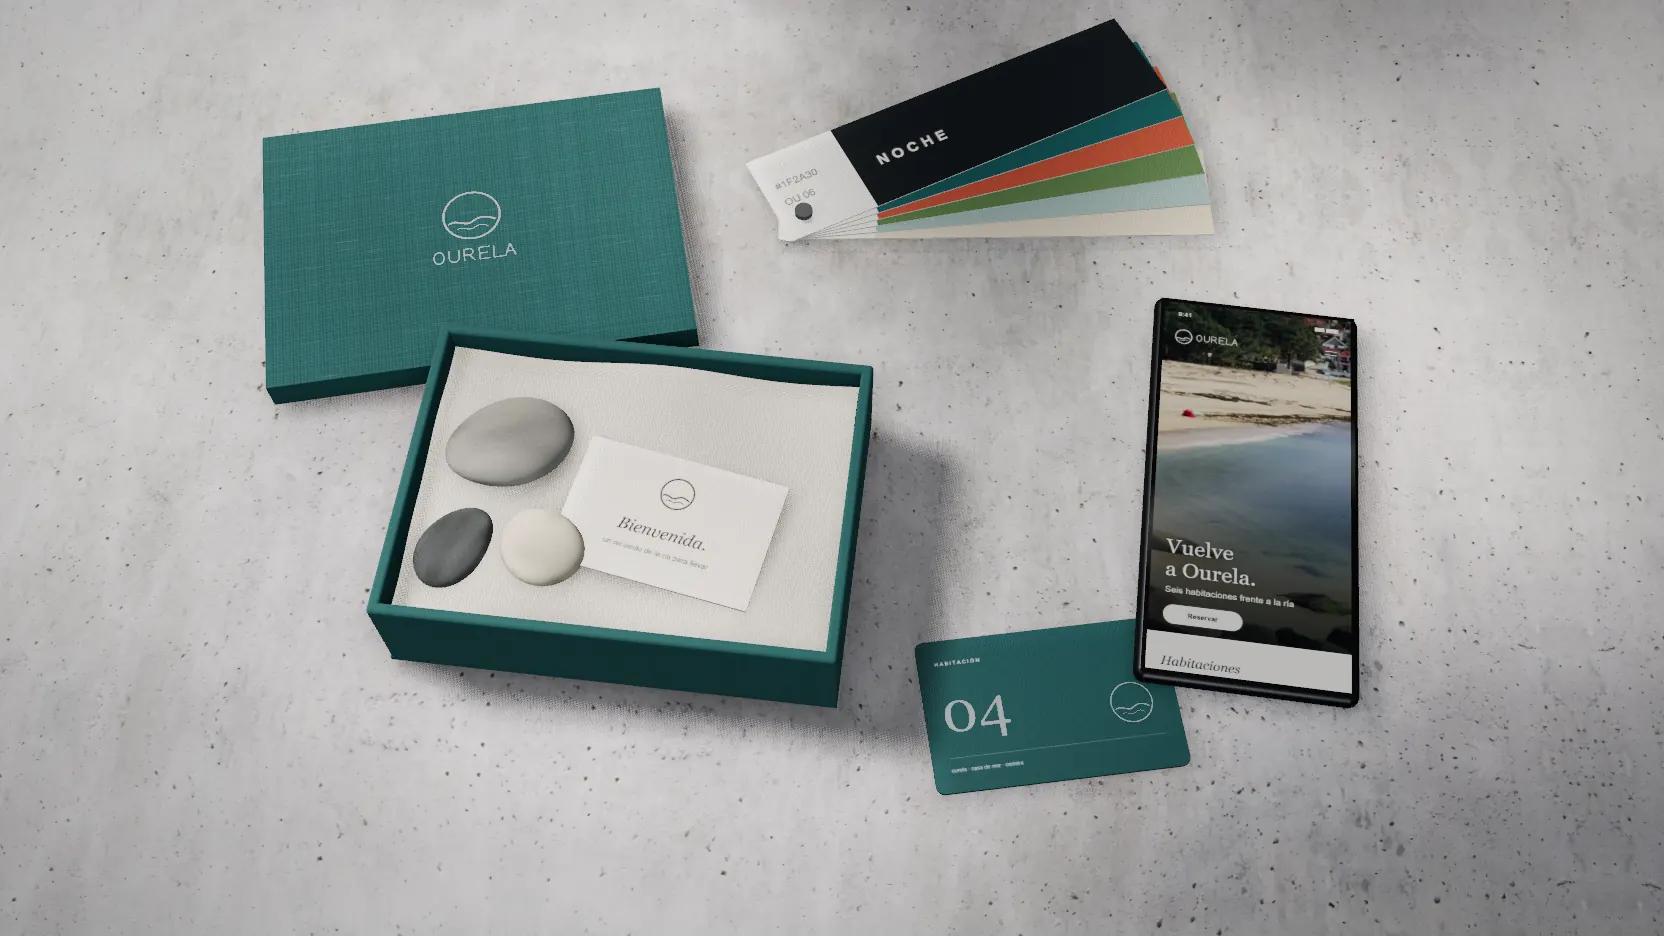
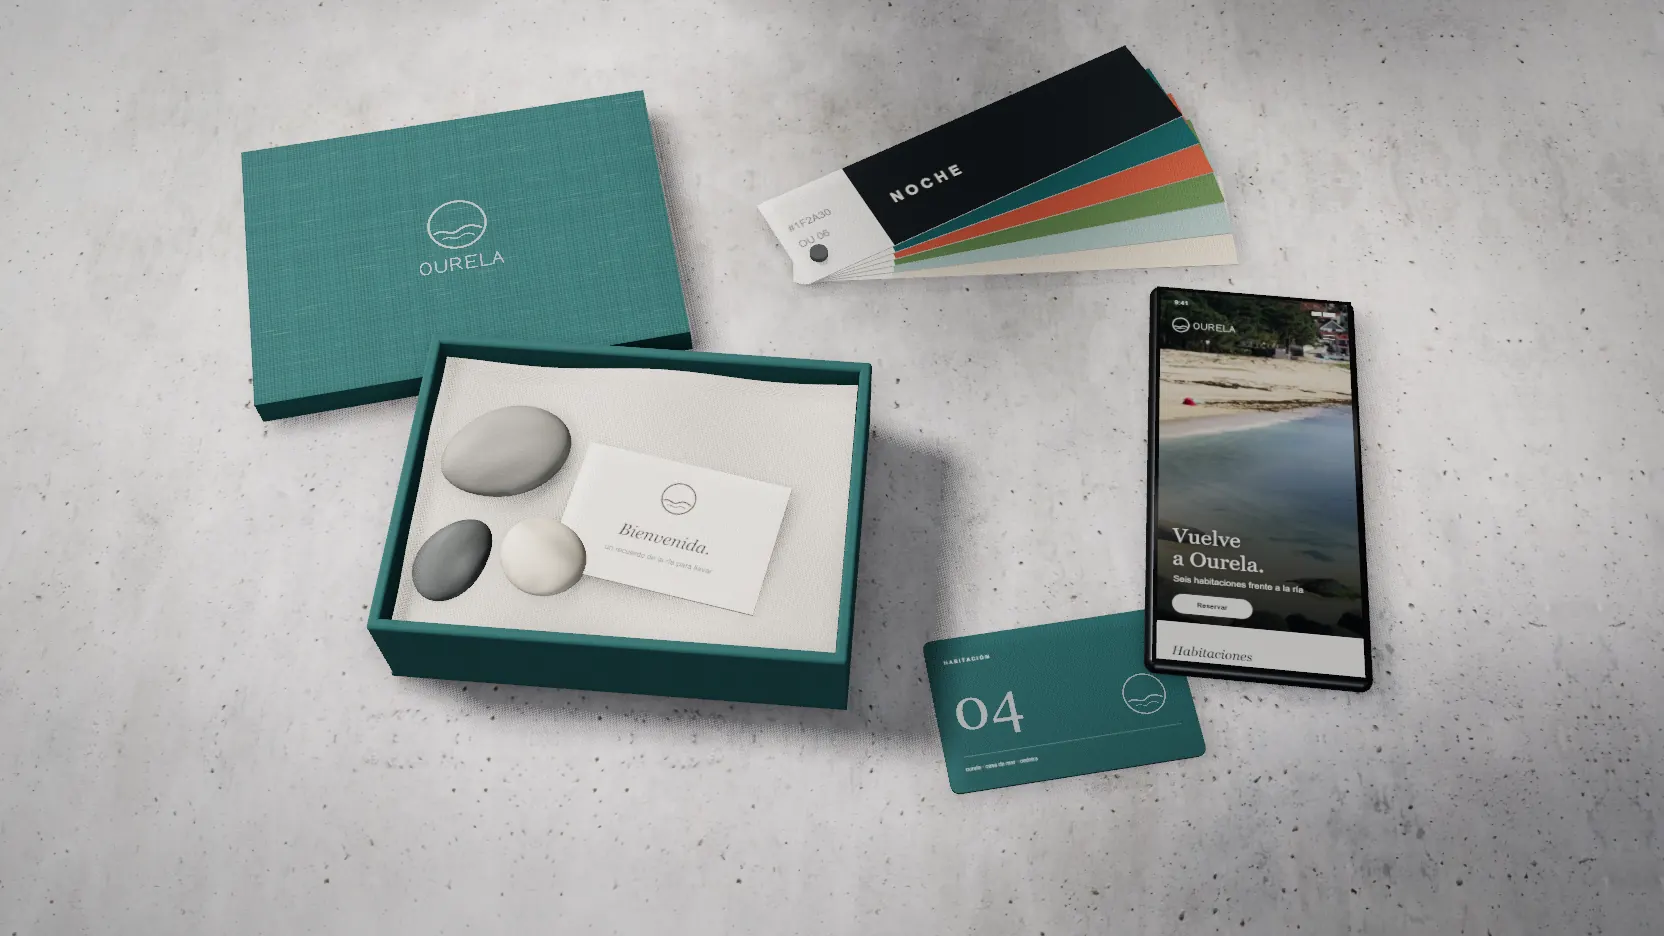
Identity scene: no window-frame shadow, closer on phones, swatch book inside the frame; loading stills redone

diff --git a/src/components/Identity/StationeryScene.tsx b/src/components/Identity/StationeryScene.tsx
@@ -739,7 +739,8 @@ async function build(host: HTMLDivElement, onReady: () => void, paused: { curren
     fs.position.set(0.8, 0.0015, -0.08);
     fan.add(fs);
     // up top, to the right of the vase, above the brochure; it fans open away from it
-    fan.position.set(-0.2, 0.008, -0.98);
+    // (a little nearer the middle, so its fanned tips stay inside the frame)
+    fan.position.set(-0.1, 0.008, -0.78);
     fan.rotation.y = 0.05;
     add(fan);
   }
@@ -1267,10 +1268,7 @@ async function build(host: HTMLDivElement, onReady: () => void, paused: { curren
     x.fillRect(0, 0, 512, 512);
     // a tall window of two panes, its frame a soft, pale shade far from the glass, as in a product
     // photograph (fine dark mullions all over read as grey bars laid across the table)
-    x.fillStyle = "#b4b4b4";
-    x.filter = "blur(14px)";
-    x.fillRect(250, -20, 18, 552);
-    x.fillRect(-20, 300, 552, 14);
+    // (no window frame across it any more: its bars read as stripes laid over the table)
     // and the leaves of a plant by the window, soft and out of focus, crossing one corner
     x.filter = "blur(9px)";
     x.fillStyle = "#5e5e5e";
@@ -1319,7 +1317,8 @@ async function build(host: HTMLDivElement, onReady: () => void, paused: { curren
     // the same width of table in every frame: framed for a wide one (30° at 16:9), a narrower frame (a phone)
     // draws back to keep the whole spread in view instead of cutting the pieces at its sides
     const WIDE = 16 / 9, half = Math.atan(Math.tan(THREE.MathUtils.degToRad(15)) * WIDE);
-    camera.fov = camera.aspect >= WIDE ? 30 : THREE.MathUtils.radToDeg(2 * Math.atan((Math.tan(half) * 0.93) / camera.aspect));
+    // (the pieces now sit close together, so a narrow frame need draw back far less to keep them whole)
+    camera.fov = camera.aspect >= WIDE ? 30 : THREE.MathUtils.radToDeg(2 * Math.atan((Math.tan(half) * 0.8) / camera.aspect));
     camera.updateProjectionMatrix();
     renderer.setSize(w, h);
     composer.setSize(w, h);
